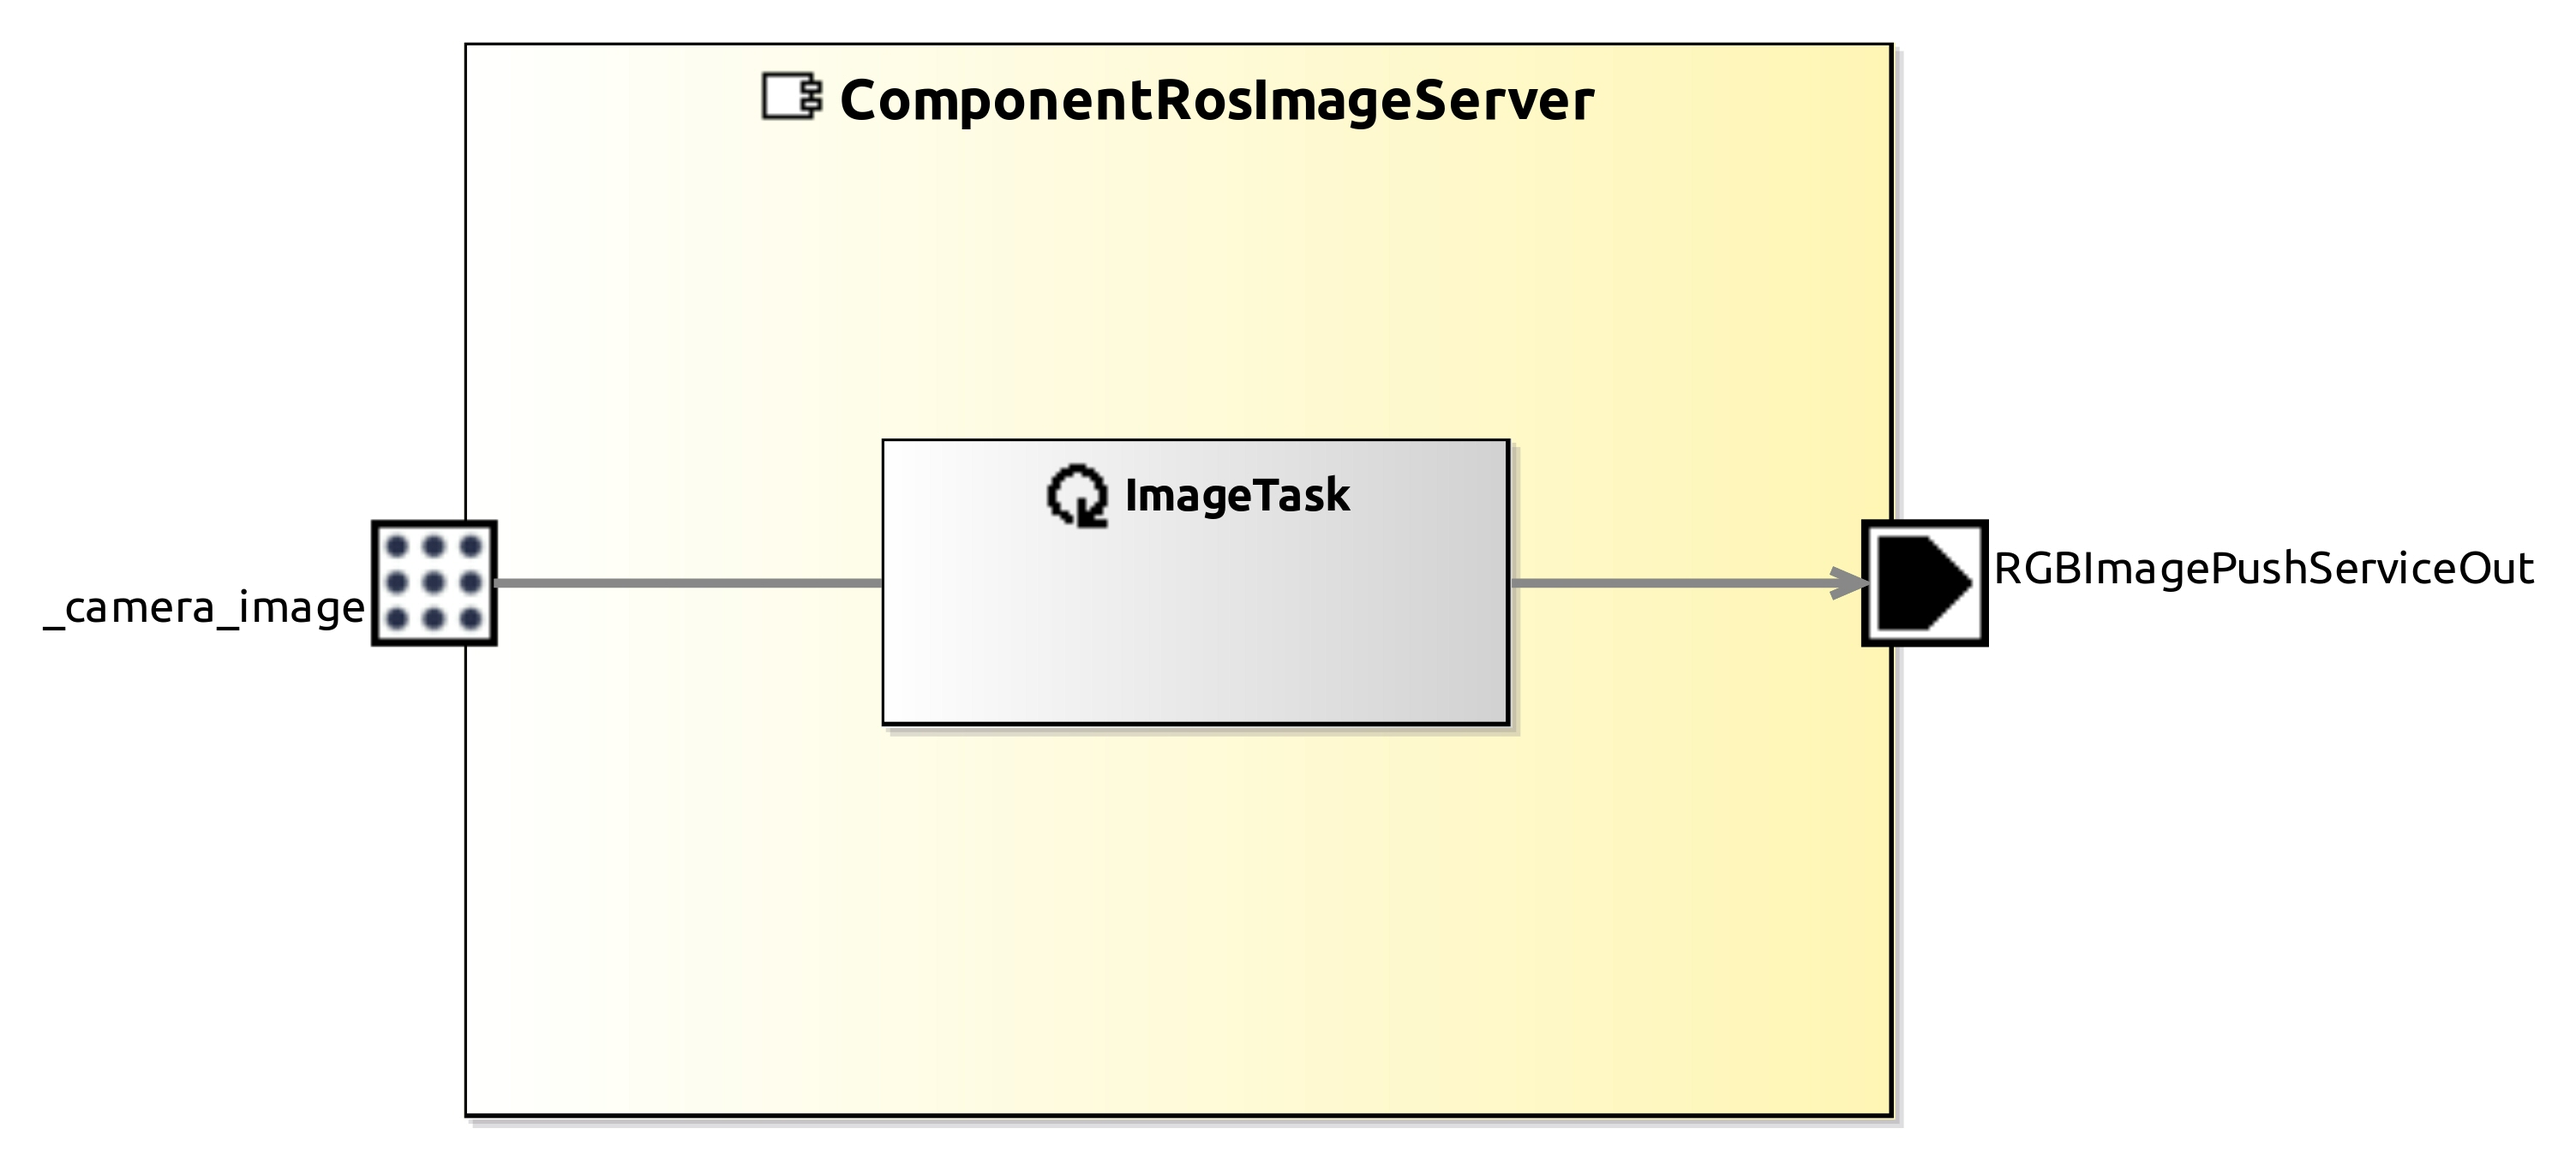
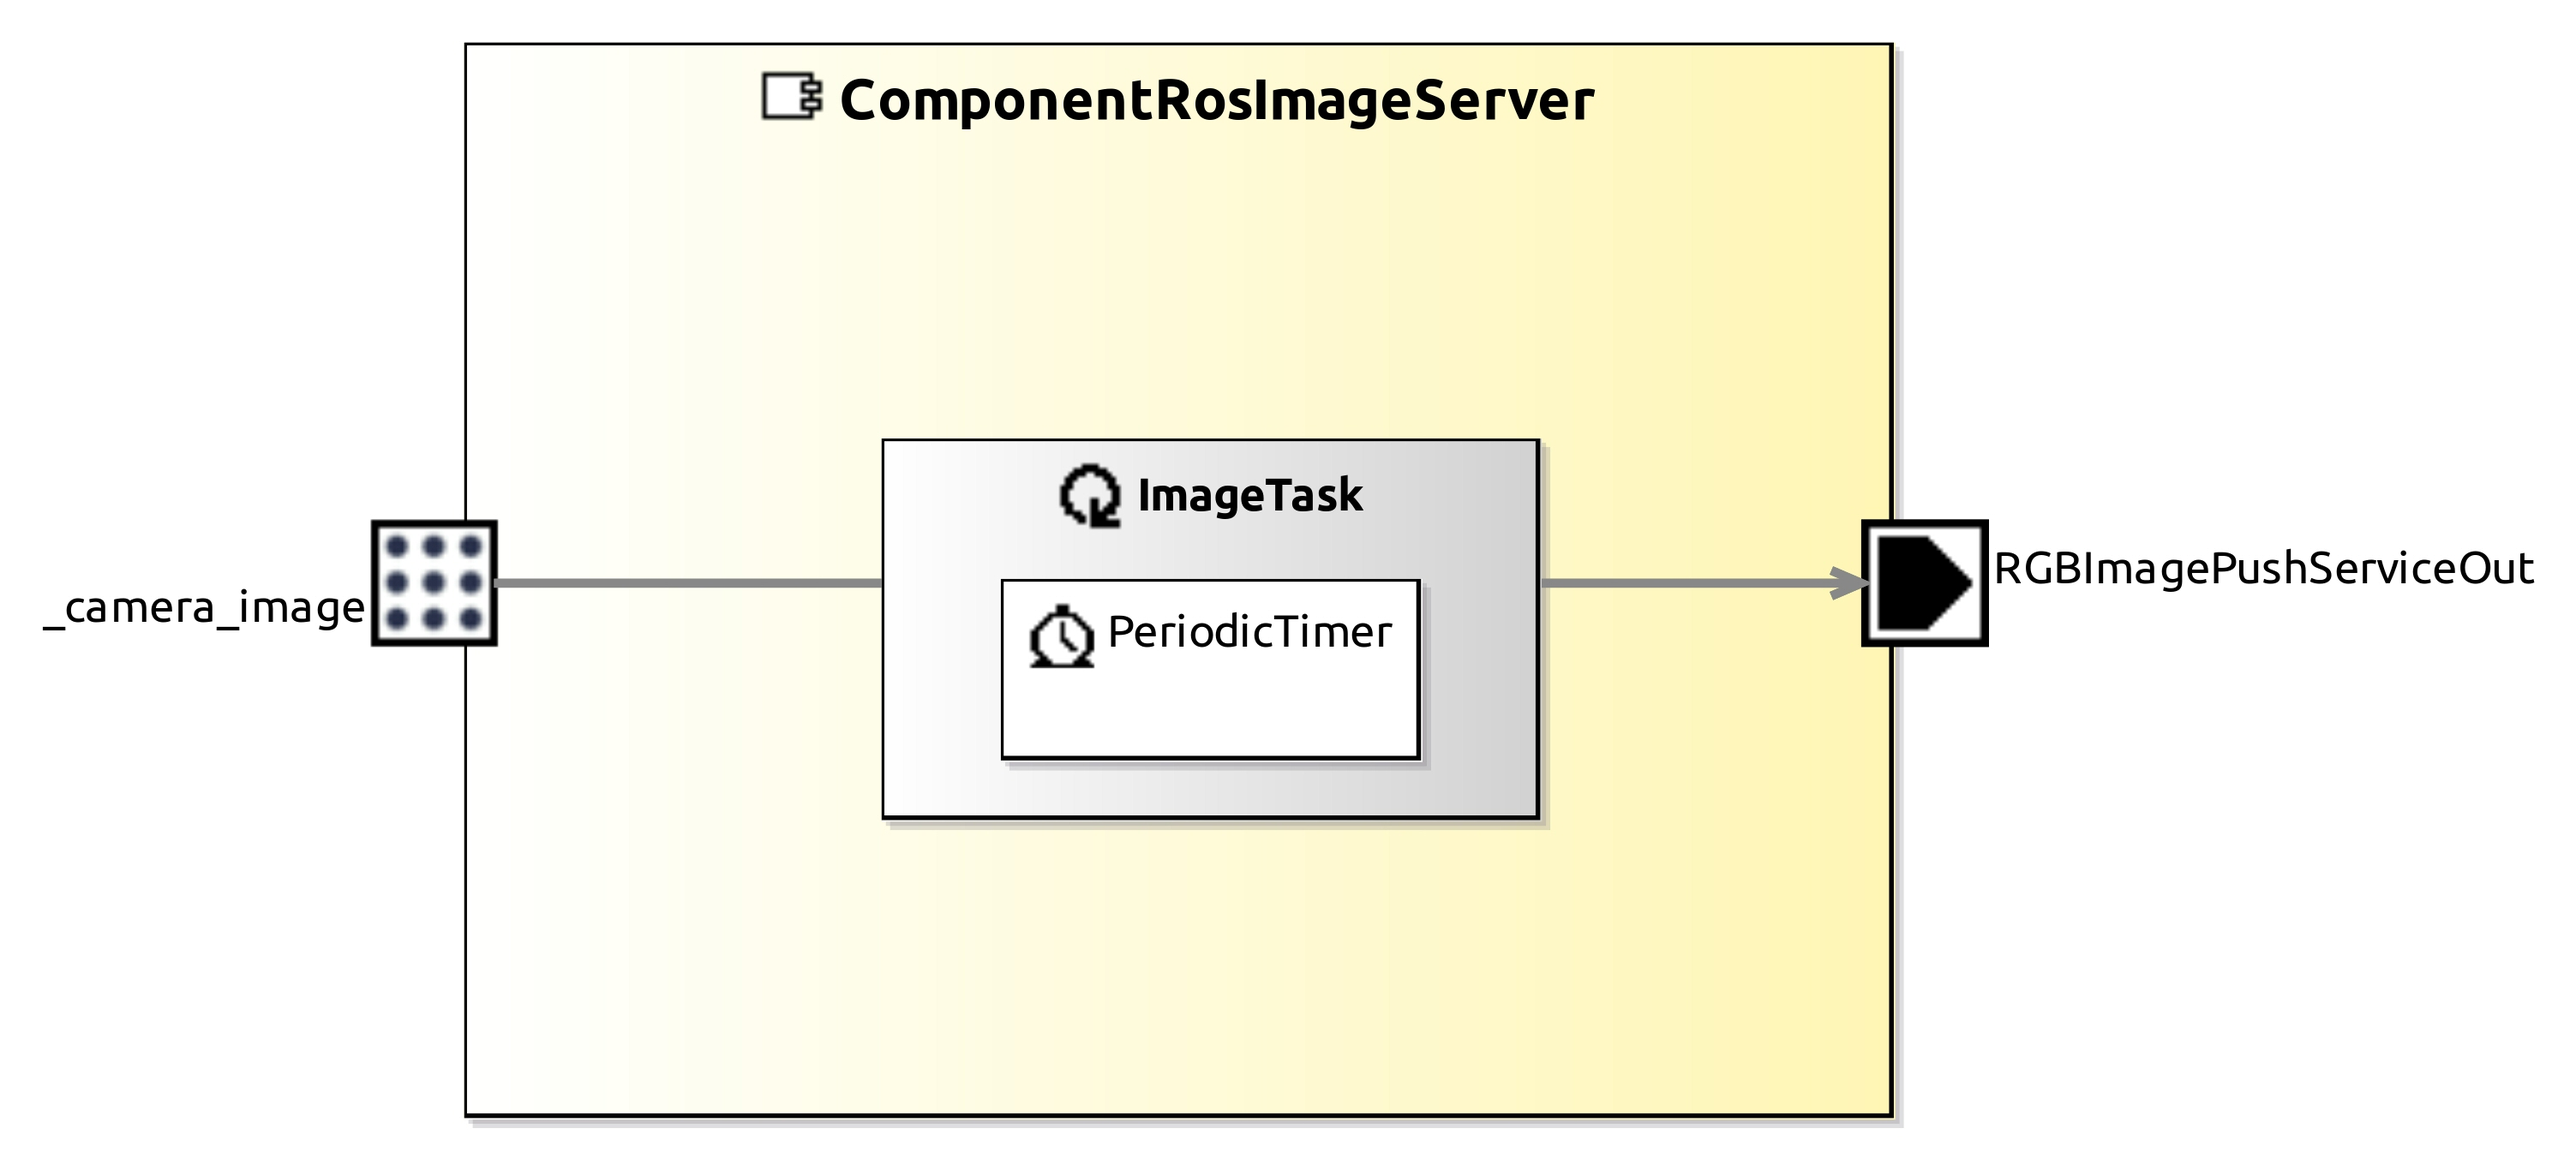
Added processing of image in ComponentRosImageServer. Added Skarv-biolerplate to files missing this. Added deployment of ComponentRosImageServer to SystemUwroysDemo.

Changed region(s): [[0.3403, 0.369, 0.6188, 0.7072], [0.4022, 0.3997, 0.5259, 0.4612]]

diff --git a/repos/ComponentRosImageServer/smartsoft/src/ImageTask.cc b/repos/ComponentRosImageServer/smartsoft/src/ImageTask.cc
@@ -1,21 +1,28 @@
-//--------------------------------------------------------------------------
-// Code generated by the SmartSoft MDSD Toolchain
-// The SmartSoft Toolchain has been developed by:
-//  
-// Service Robotics Research Center
-// University of Applied Sciences Ulm
-// Prittwitzstr. 10
-// 89075 Ulm (Germany)
+// Copyright (c) 2020 Skarv Technologies AS
+// All rights reserved.
 //
-// Information about the SmartSoft MDSD Toolchain is available at:
-// www.servicerobotik-ulm.de
+// Licensed under the Apache License, Version 2.0 (the "License");
+// you may not use this file except in compliance with the License.
+// You may obtain a copy of the License at
 //
-// This file is generated once. Modify this file to your needs. 
-// If you want the toolchain to re-generate this file, please 
-// delete it before running the code generator.
-//--------------------------------------------------------------------------
+//     http://www.apache.org/licenses/LICENSE-2.0
+//
+// Unless required by applicable law or agreed to in writing, software
+// distributed under the License is distributed on an "AS IS" BASIS,
+// WITHOUT WARRANTIES OR CONDITIONS OF ANY KIND, either express or implied.
+// See the License for the specific language governing permissions and
+// limitations under the License.
+//
+// Project: UWROSYS
+//          RobMoSys, Horizon 2020
+//
+// Author: Petter Norgren
+//
+
 #include "ImageTask.hh"
 #include "ComponentRosImageServer.hh"
+
+#include <DomainVision/CommVideoImage.hh>
 
 #include <iostream>
 
@@ -31,7 +38,17 @@ ImageTask::~ImageTask()
 
 void ImageTask::_camera_image_cb(const sensor_msgs::Image::ConstPtr &msg)
 {
-	// TODO.
+	DomainVision::FormatType format;
+	if(!msg->encoding.compare("rgb8"))
+	{
+		DomainVision::CommVideoImage::string2format("rgb24", format);
+		DomainVision::CommVideoImage image(msg->width, msg->height, format, msg->data.data());
+		COMP->rGBImagePushServiceOut->put(image);
+	}
+	else
+	{
+		std::cout << "ImageTask: Unsupported video encoding: " + msg->encoding + ".\n";
+	}
 }
 
 
@@ -50,7 +67,7 @@ int ImageTask::on_execute()
 	// to get the incoming data, use this methods:
 	Smart::StatusCode status;
 
-	std::cout << "Hello from ImageTask " << std::endl;
+	//std::cout << "Hello from ImageTask " << std::endl;
 
 	// it is possible to return != 0 (e.g. when the task detects errors), then the outer loop breaks and the task stops
 	return 0;

diff --git a/repos/ComponentUUVManipulator/smartsoft/src/ManipulatorCommandTask.cc b/repos/ComponentUUVManipulator/smartsoft/src/ManipulatorCommandTask.cc
@@ -1,19 +1,24 @@
-//--------------------------------------------------------------------------
-// Code generated by the SmartSoft MDSD Toolchain
-// The SmartSoft Toolchain has been developed by:
-//  
-// Service Robotics Research Center
-// University of Applied Sciences Ulm
-// Prittwitzstr. 10
-// 89075 Ulm (Germany)
+// Copyright (c) 2020 Skarv Technologies AS
+// All rights reserved.
 //
-// Information about the SmartSoft MDSD Toolchain is available at:
-// www.servicerobotik-ulm.de
+// Licensed under the Apache License, Version 2.0 (the "License");
+// you may not use this file except in compliance with the License.
+// You may obtain a copy of the License at
 //
-// This file is generated once. Modify this file to your needs. 
-// If you want the toolchain to re-generate this file, please 
-// delete it before running the code generator.
-//--------------------------------------------------------------------------
+//     http://www.apache.org/licenses/LICENSE-2.0
+//
+// Unless required by applicable law or agreed to in writing, software
+// distributed under the License is distributed on an "AS IS" BASIS,
+// WITHOUT WARRANTIES OR CONDITIONS OF ANY KIND, either express or implied.
+// See the License for the specific language governing permissions and
+// limitations under the License.
+//
+// Project: UWROSYS
+//          RobMoSys, Horizon 2020
+//
+// Author: Petter Norgren
+//
+
 #include "ManipulatorCommandTask.hh"
 #include "ComponentUUVManipulator.hh"
 

diff --git a/repos/ComponentUUVSimulator/smartsoft/src/BaseStateTask.cc b/repos/ComponentUUVSimulator/smartsoft/src/BaseStateTask.cc
@@ -1,19 +1,24 @@
-//--------------------------------------------------------------------------
-// Code generated by the SmartSoft MDSD Toolchain
-// The SmartSoft Toolchain has been developed by:
-//  
-// Service Robotics Research Center
-// University of Applied Sciences Ulm
-// Prittwitzstr. 10
-// 89075 Ulm (Germany)
+// Copyright (c) 2020 Skarv Technologies AS
+// All rights reserved.
 //
-// Information about the SmartSoft MDSD Toolchain is available at:
-// www.servicerobotik-ulm.de
+// Licensed under the Apache License, Version 2.0 (the "License");
+// you may not use this file except in compliance with the License.
+// You may obtain a copy of the License at
 //
-// This file is generated once. Modify this file to your needs. 
-// If you want the toolchain to re-generate this file, please 
-// delete it before running the code generator.
-//--------------------------------------------------------------------------
+//     http://www.apache.org/licenses/LICENSE-2.0
+//
+// Unless required by applicable law or agreed to in writing, software
+// distributed under the License is distributed on an "AS IS" BASIS,
+// WITHOUT WARRANTIES OR CONDITIONS OF ANY KIND, either express or implied.
+// See the License for the specific language governing permissions and
+// limitations under the License.
+//
+// Project: UWROSYS
+//          RobMoSys, Horizon 2020
+//
+// Author: Petter Norgren
+//
+
 #include "BaseStateTask.hh"
 #include "ComponentUUVSimulator.hh"
 
